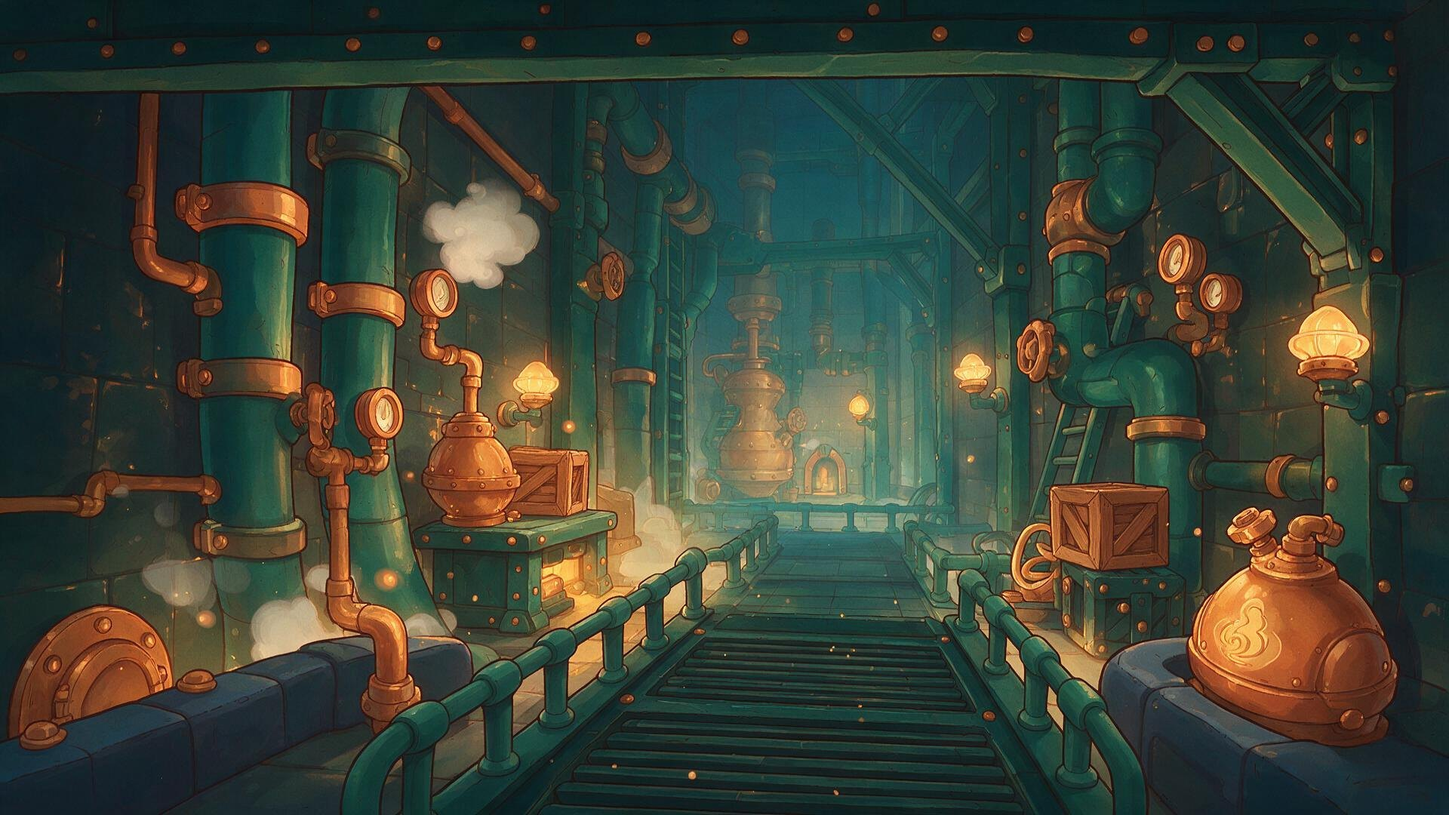
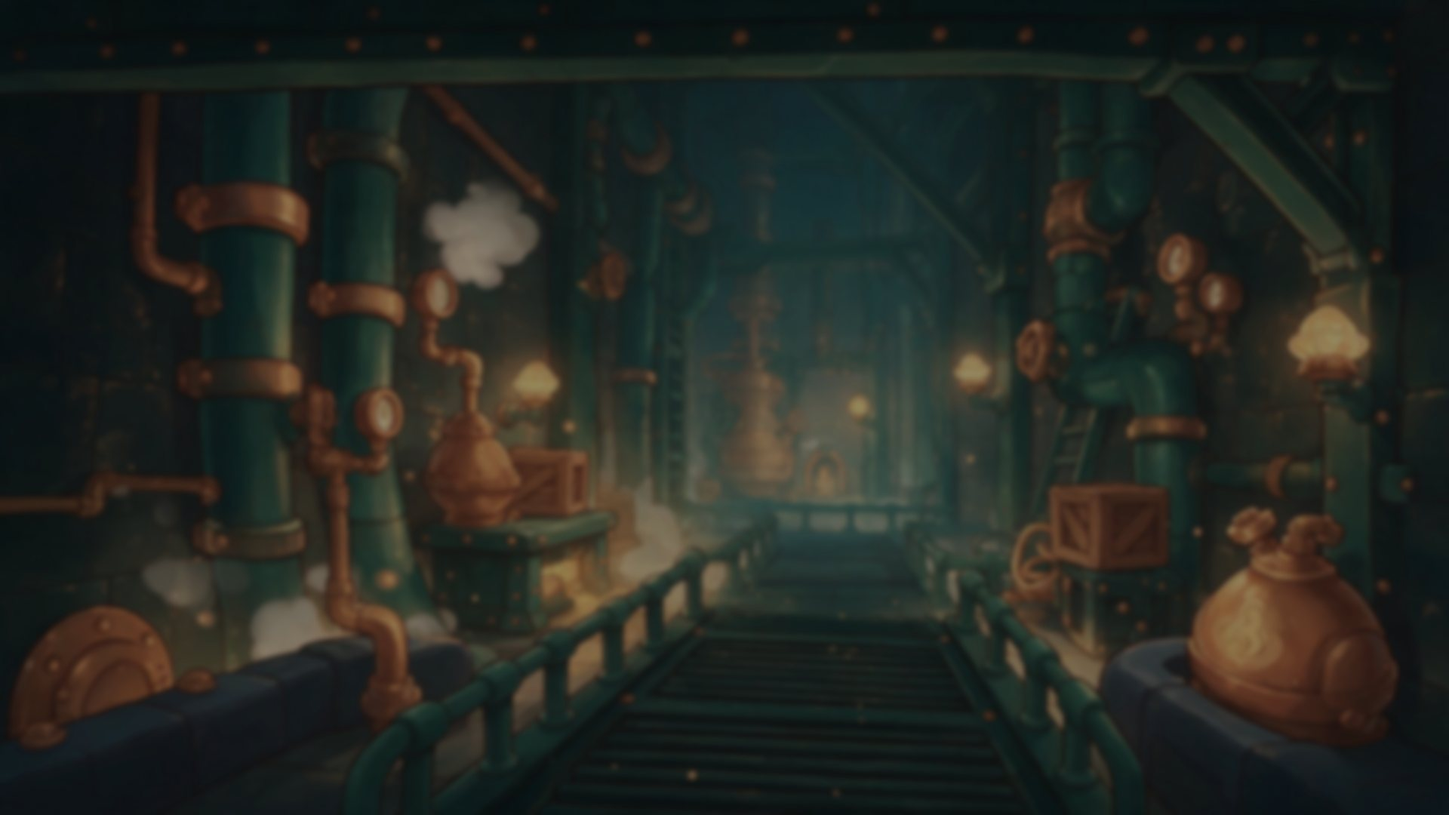
feat(crate_crew): site screenshot, asset provenance and calmer far walls

diff --git a/apps/client/games/crate_crew/ASSETS.md b/apps/client/games/crate_crew/ASSETS.md
@@ -1,10 +1,116 @@
 # Assets of `crate_crew`
 
-Every file in this directory that is not code or the manifest, with where it came from and the licence it is distributed under.
+Every file in this directory that is not code or the manifest, with where it came from and the licence it is distributed under. The pictures and the music were made for this project on 2026-11-11 with the tools in `scripts/assets/`, from prompts written for this project that describe its own robots, machines and workshop and name no existing work. They are distributed under Apache-2.0 with the project; see the note on AI-generated material in `docs/legal/licenses.md`.
+
+Every picture prompt begins with the same style sentence, written `[style]` below: "Hand-painted cartoon game art, clean dark brown outlines of even weight, soft cel shading with a warm rim light, chunky rounded toy-like shapes, rich saturated colours, cosy lamp-lit workshop mood."
 
 | File | What it is | Source | Licence |
 |---|---|---|---|
-| `key_art.jpg` | 16:9 key art (1920x1080) shown by the launcher and the website | Generated for this project with the image model `doubao-seedream-5.0-pro` from a prompt written for it that describes this game's own two robots and workshop; an original composition that depicts no character or artwork of any existing game | Distributed with the project under Apache-2.0. AI-generated images may not be protected by copyright in some jurisdictions; judge for yourself before reusing it |
-| `site_screenshot.png` | A 1920x1080 capture of this game being played in the launcher, shown on the website. It is not shipped in the game: the export presets exclude it | Captured from this project's own launcher with `scripts/run-launcher-shot.sh` | Apache-2.0, with the project |
+| `key_art.jpg` | 16:9 key art (1920x1080) shown by the launcher and the website | Generated for this project with doubao-seedream-5.0-pro from a prompt written for it that describes this game's own two robots and workshop; unchanged by this revision | Apache-2.0, with the project |
+| `site_screenshot.jpg` | A 1920x1080 capture of a two-player run in the launcher, shown on the website. Not shipped in the game: the export presets exclude it | Captured from this project's own launcher with `scripts/run-launcher-shot.sh`, saved as JPEG with `assets.py fit` | Apache-2.0, with the project |
+| `art/hero0.png` | Sprite atlas of the teal robot, 14 frames (frame table `art/hero0.json`) | Generated with doubao-seedream-5.0-pro: the base pose `idle` from a prompt, every other frame from a prompt with the keyed base pose as the reference picture (prompts below); each keyed to alpha with `assets.py key`, scaled to its size on the stage and packed with `assets.py pack` (10 atlas pixels per stage pixel) | Apache-2.0, with the project |
+| `art/hero1.png` | Sprite atlas of the orange robot, 14 frames (frame table `art/hero1.json`) | As `art/hero0.png`, with its own base pose and prompts (below) | Apache-2.0, with the project |
+| `art/foes.png` | Sprite atlas of the six enemies, 11 frames (frame table `art/foes.json`) | Generated with doubao-seedream-5.0-pro: first frames from prompts, second frames and the unarmoured roller from prompts with the keyed first frame as the reference picture (prompts below); each keyed to alpha with `assets.py key`, scaled to its size on the stage and packed with `assets.py pack` (10 atlas pixels per stage pixel) | Apache-2.0, with the project |
+| `art/bosses.png` | Sprite atlas of the Dustmaw (closed, open, hurt), the Overseer's trolley (eye open, shutter down, hurt) and its claw (open, shut) (frame table `art/bosses.json`) | Generated with doubao-seedream-5.0-pro in the same way (prompts below); the hook the model drew under the trolley is cropped off, the game draws the chain and the claw itself; each keyed to alpha with `assets.py key`, scaled to its size on the stage and packed with `assets.py pack` (10 atlas pixels per stage pixel) | Apache-2.0, with the project |
+| `art/props.png` | Sprite atlas of crates, things thrown, pick-ups, the lift door, chute, flags, lift, shelves, spikes and four effect sprites, 23 frames (frame table `art/props.json`) | Generated with doubao-seedream-5.0-pro, one prompt per frame (below); each keyed to alpha with `assets.py key`, scaled to its size on the stage and packed with `assets.py pack` (10 atlas pixels per stage pixel); crates, doors, chute, lift, shelves and spikes are stretched to their exact collision size | Apache-2.0, with the project |
+| `art/ground0.jpg` | Repeating ground texture of stage 1 (wooden workbench planks), 512x512, drawn over four cells each way | Generated with doubao-seedream-5.0-pro from the prompt "[style] A seamless flat texture seen straight on: warm brown wooden workbench planks laid horizontally with visible grain, a few knots and small nail heads, evenly lit, filling the whole picture edge to edge. No characters, no text, no watermark."; cropped to whole repeats of its pattern, made seamless and resized with `assets.py tile` | Apache-2.0, with the project |
+| `art/ground1.jpg` | Repeating ground texture of stage 2 (teal riveted steel plates), 512x512, drawn over four cells each way | Generated with doubao-seedream-5.0-pro from the prompt "[style] A seamless flat texture seen straight on: dark teal painted riveted steel plates in a regular grid with slightly worn edges, evenly lit, filling the whole picture edge to edge. No characters, no text, no watermark."; cropped to whole repeats of its pattern, made seamless and resized with `assets.py tile` | Apache-2.0, with the project |
+| `art/ground2.jpg` | Repeating ground texture of stage 3 (foundry bricks), 512x512, drawn over four cells each way | Generated with doubao-seedream-5.0-pro from the prompt "[style] A seamless flat texture seen straight on: dark rust red foundry bricks with sooty mortar lines, evenly lit, filling the whole picture edge to edge. No characters, no text, no watermark."; cropped to whole repeats of its pattern, made seamless and resized with `assets.py tile` | Apache-2.0, with the project |
+| `art/ground3.jpg` | Repeating ground texture of stage 4 (violet steel panels), 512x512, drawn over four cells each way | Generated with doubao-seedream-5.0-pro from the prompt "[style] A seamless flat texture seen straight on: dusky violet blue steel panels with thin seams and tiny rivets, evenly lit, filling the whole picture edge to edge. No characters, no text, no watermark."; cropped to whole repeats of its pattern, made seamless and resized with `assets.py tile` | Apache-2.0, with the project |
+| `art/back0.jpg` | Far wall of stage 1, 1920x1080 | Generated with doubao-seedream-5.0-pro from the prompt "[style] A wide game background of the inside of an enormous cosy workshop seen from a tabletop: a far pegboard wall hung with giant spanners, saws and hammers, tall shelves of jars and paint tins, hanging lamps casting warm cones of light with floating dust, deep blue shadows. Soft, slightly hazy and low in contrast so that foreground game elements stand out. No characters, no text, no watermark."; left and right edges cross-faded so it repeats sideways, blurred, darkened and desaturated with Pillow so it stays behind the play | Apache-2.0, with the project |
+| `art/back1.jpg` | Far wall of stage 2, 1920x1080 | Generated with doubao-seedream-5.0-pro from the prompt "[style] A wide game background of the inside of a deep vertical maintenance shaft: big teal and copper pipes running up and down a dark wall, valves and pressure gauges, wisps of steam, small amber lamps, cool blue green shadows. Soft, slightly hazy and low in contrast so that foreground game elements stand out. No characters, no text, no watermark."; blurred, darkened and desaturated with Pillow so it stays behind the play | Apache-2.0, with the project |
+| `art/back2.jpg` | Far wall of stage 3, 1920x1080 | Generated with doubao-seedream-5.0-pro from the prompt "[style] A wide game background of the inside of a glowing foundry hall: distant furnaces with orange molten light, huge ladles hanging on chains, brick arches, conveyor lines far away, drifting embers, deep maroon shadows. Soft, slightly hazy and low in contrast so that foreground game elements stand out. No characters, no text, no watermark."; left and right edges cross-faded so it repeats sideways, blurred, darkened and desaturated with Pillow so it stays behind the play | Apache-2.0, with the project |
+| `art/back3.jpg` | Far wall of stage 4, 1920x1080 | Generated with doubao-seedream-5.0-pro from the prompt "[style] A wide game background of the inside of a high control loft under the roof of a workshop at night: banks of old control consoles with small teal and amber lights, big dials, cable bundles, roof beams and a large round window showing a starry night sky, violet blue shadows. Soft, slightly hazy and low in contrast so that foreground game elements stand out. No characters, no text, no watermark."; left and right edges cross-faded so it repeats sideways, blurred, darkened and desaturated with Pillow so it stays behind the play | Apache-2.0, with the project |
+| `audio/theme_bench.ogg` | Looping theme of the workbench and the foundry, 53.3 s loop, stereo, -18.0 LUFS | Generated with music_v2_5 from the prompt "Instrumental, no vocals. A cheerful, bouncy adventure tune for a cosy toy workshop: marimba and pizzicato strings carry a catchy hopping melody built on a rising four-note motif, answered by a clarinet, with upright bass, brushed snare, wood blocks and ticking clockwork percussion. Bright major key, 126 BPM, steady tempo from the first bar, warm, playful and full-sounding orchestral game soundtrack. An eight-bar phrase that repeats, so the piece loops seamlessly: no intro, no break, no fade out, no ending."; the better of two takes by measured loop similarity, seam and tempo steadiness; loop cut and loudness set with `assets.py audio --kind music --loop` | Apache-2.0, with the project |
+| `audio/theme_shaft.ogg` | Looping theme of the pipe shaft and the control loft, 31.1 s loop, stereo, -18.3 LUFS | Generated with music_v2_5 from the prompt "Instrumental, no vocals. A mysterious but still playful sneaking tune for a deep pipe shaft inside a workshop: a rising four-note motif in a minor key on bass clarinet and muted trumpet over pizzicato low strings, vibraphone, soft metallic pipe percussion, ticking clockwork and upright bass. 108 BPM, steady tempo from the first bar, curious and a little tense, warm orchestral game soundtrack. An eight-bar phrase that repeats, so the piece loops seamlessly: no intro, no break, no fade out, no ending."; the better of two takes by measured loop similarity, seam and tempo steadiness; loop cut and loudness set with `assets.py audio --kind music --loop` | Apache-2.0, with the project |
+| `audio/theme_boss.ogg` | Looping theme of both boss fights, 30.8 s loop, stereo, -18.0 LUFS | Generated with music_v2_5 from the prompt "Instrumental, no vocals. A fast, dramatic boss battle theme for a giant runaway machine in a workshop: driving staccato strings and low brass stabs, pounding timpani, anvil hits and snare drum, a rising four-note motif called out by trumpets in a minor key, racing clockwork percussion. 156 BPM, steady tempo from the first bar, urgent and heroic rather than scary, full orchestral game soundtrack. An eight-bar phrase that repeats, so the piece loops seamlessly: no intro, no break, no fade out, no ending."; the better of two takes by measured loop similarity, seam and tempo steadiness; loop cut and loudness set with `assets.py audio --kind music --loop` | Apache-2.0, with the project |
+| `audio/fanfare_clear.ogg` | Stage-clear fanfare, stereo, -16 LUFS | Generated with music_v2_5 from the prompt "Instrumental, no vocals. A short triumphant stage-clear fanfare for a playful workshop adventure game: trumpets and marimba play a quick rising four-note motif that lands on a bright held major chord with a cymbal and a glockenspiel sparkle. Starts at once, complete ending, then silence."; trimmed and loudness set with `assets.py audio --kind stinger` | Apache-2.0, with the project |
+| `audio/fanfare_won.ogg` | Victory fanfare after the last stage, stereo, -16 LUFS | Generated with music_v2_5 from the prompt "Instrumental, no vocals. A grand, joyful victory fanfare for the end of a playful workshop adventure game: full orchestra with trumpets, strings, marimba and timpani plays a rising four-note motif twice, climbing higher the second time, and ends on a big happy final major chord with cymbals. Starts at once, complete ending, then silence."; trimmed and loudness set with `assets.py audio --kind stinger` | Apache-2.0, with the project |
+| `audio/fanfare_lost.ogg` | Game-over jingle, stereo, -16 LUFS | Generated with music_v2_5 from the prompt "Instrumental, no vocals. A short gentle sad game-over jingle for a playful workshop adventure game: a clarinet and pizzicato strings play a falling four-note phrase that slows and winds down like a clockwork toy running out of spring, ending on one soft low marimba note. Starts at once, complete ending, then silence."; trimmed and loudness set with `assets.py audio --kind stinger` | Apache-2.0, with the project |
 
-Everything else the game shows is pixel art drawn by its own code: sprites are built at start-up from palette-indexed rows of characters and from small drawing routines in `sprites.gd`, and backgrounds are generated in `backdrops.gd`. All of it was authored for this project and is Apache-2.0 with the project. The game has no audio files: effects and music are synthesised at run time by `games/shared/game_audio.gd` from the note and effect tables in `sounds.gd`, which were written for this project.
+Sound effects are not files: they are synthesised at run time by `games/shared/game_synth.gd` from the presets of `games/shared/game_sfx.gd` and the layered definitions in `sounds.gd`, written for this project. Ground edges, conveyor chevrons, the crane rail and chain, shadows, particles of light, banners and hint plates are drawn by `render.gd`.
+
+## Prompts of `art/hero0.png`
+
+- `carry`: "The same character from the reference image, identical design, colours and proportions, same art style, now standing upright and holding both arms straight up above its head with flat open hands, as if holding up a big box overhead, but without drawing any box. Full body, side view facing right, centred, isolated on a perfectly flat solid pure magenta (#FF00FF) background, no shadow, no ground, no glow, no text."
+- `carry_run_0`: "The same character from the reference image, identical design, colours and proportions, same art style, now running to the right in a wide stride while holding both arms straight up above its head with flat open hands, without drawing any box. Full body, side view facing right, centred, isolated on a perfectly flat solid pure magenta (#FF00FF) background, no shadow, no ground, no glow, no text."
+- `carry_run_1`: "The same character from the reference image, identical design, colours and proportions, same art style, now running to the right with one knee lifted high while holding both arms straight up above its head with flat open hands, without drawing any box. Full body, side view facing right, centred, isolated on a perfectly flat solid pure magenta (#FF00FF) background, no shadow, no ground, no glow, no text."
+- `cheer`: "The same character from the reference image, identical design, colours and proportions, same art style, now celebrating a victory: jumping for joy with one fist punched high in the air, its eyes shown as two happy upward curves. Full body, side view facing right, centred, isolated on a perfectly flat solid pure magenta (#FF00FF) background, no shadow, no ground, no glow, no text."
+- `duck`: "The same character from the reference image, identical design, colours and proportions, same art style, now crouching as low as it can, squatting with knees fully bent and its head pulled down between its shoulders, both arms held straight up above its head with flat open hands, without drawing any box. Full body, side view facing right, centred, isolated on a perfectly flat solid pure magenta (#FF00FF) background, no shadow, no ground, no glow, no text."
+- `fall`: "The same character from the reference image, identical design, colours and proportions, same art style, now falling down through the air, legs dangling apart, both arms flung up and out, looking down, a little worried. Full body, side view facing right, centred, isolated on a perfectly flat solid pure magenta (#FF00FF) background, no shadow, no ground, no glow, no text."
+- `hurt`: "The same character from the reference image, identical design, colours and proportions, same art style, now being hit and knocked backwards: body bent back, arms and legs flailing, its eyes shown as two X shapes. Full body, side view facing right, centred, isolated on a perfectly flat solid pure magenta (#FF00FF) background, no shadow, no ground, no glow, no text."
+- `idle`: "[style] A video game character: a small cute repair robot with a round teal dome head, a dark visor with two glowing green rectangular eyes, a thin antenna with a small orange ball on top, a compact boxy teal torso with a yellow chest light, short dark jointed arms with teal mitten hands and short legs with big chunky teal boots. Standing upright in a relaxed idle pose, arms at its sides, full body, side view facing right.  Full object in frame, centred, isolated on a perfectly flat solid pure magenta (#FF00FF) background, no shadow, no ground, no glow, no text, no watermark."
+- `jump`: "The same character from the reference image, identical design, colours and proportions, same art style, now jumping straight up, both knees tucked up under the body, both arms raised, looking up. Full body, side view facing right, centred, isolated on a perfectly flat solid pure magenta (#FF00FF) background, no shadow, no ground, no glow, no text."
+- `run_0`: "The same character from the reference image, identical design, colours and proportions, same art style, now running fast to the right in a wide stride: front leg stretched far forward, back leg kicked up behind, arms swinging, body leaning forward. Full body, side view facing right, centred, isolated on a perfectly flat solid pure magenta (#FF00FF) background, no shadow, no ground, no glow, no text."
+- `run_1`: "The same character from the reference image, identical design, colours and proportions, same art style, now running to the right, caught in the middle of a step: one knee lifted high in front, the other foot planted straight under the body, elbows bent, body leaning forward. Full body, side view, isolated on a transparent background, no shadow, no text"
+- `run_2`: "The same character from the reference image, identical design, colours and proportions, same art style, now running fast to the right in a wide stride with the other leg forward: back leg stretched far behind touching the ground with its toe, front leg reaching forward in the air, arms swinging the opposite way, body leaning forward. Full body, side view, isolated on a transparent background, no shadow, no text."
+- `run_3`: "The same character from the reference image, identical design, colours and proportions, same art style, now running to the right, pushing off: the back foot just leaving the ground behind the body, the front knee bent low, body leaning forward. Full body, side view facing right, centred, isolated on a perfectly flat solid pure magenta (#FF00FF) background, no shadow, no ground, no glow, no text."
+- `throw`: "The same character from the reference image, identical design, colours and proportions, same art style, now throwing something away to the right: lunging forward on one bent leg with both arms thrust straight out in front, hands open, body leaning far forward, without drawing the thrown thing. Full body, side view facing right, centred, isolated on a perfectly flat solid pure magenta (#FF00FF) background, no shadow, no ground, no glow, no text."
+
+## Prompts of `art/hero1.png`
+
+- `carry`: "The same character from the reference image, identical design, colours and proportions, same art style, now standing upright and holding both arms straight up above its head with flat open hands, its hands completely empty, nothing above its head, only the robot itself in the picture. Full body, side view facing right, centred, isolated on a perfectly flat solid pure magenta (#FF00FF) background, no shadow, no ground, no glow, no text."
+- `carry_run_0`: "The same character from the reference image, identical design, colours and proportions, same art style, now running to the right in a wide stride while holding both arms straight up above its head with flat open hands, without drawing any box. Full body, side view facing right, centred, isolated on a perfectly flat solid pure magenta (#FF00FF) background, no shadow, no ground, no glow, no text."
+- `carry_run_1`: "The same character from the reference image, identical design, colours and proportions, same art style, now running to the right with one knee lifted high while holding both arms straight up above its head with flat open hands, without drawing any box. Full body, side view facing right, centred, isolated on a perfectly flat solid pure magenta (#FF00FF) background, no shadow, no ground, no glow, no text."
+- `cheer`: "The same character from the reference image, identical design, colours and proportions, same art style, now celebrating a victory: jumping for joy with one fist punched high in the air, its eyes shown as two happy upward curves. Full body, side view facing right, centred, isolated on a perfectly flat solid pure magenta (#FF00FF) background, no shadow, no ground, no glow, no text."
+- `duck`: "The same character from the reference image, identical design, colours and proportions, same art style, now crouching as low as it can, squatting with knees fully bent and its head pulled down between its shoulders, both arms held straight up above its head with flat open hands, without drawing any box. Full body, side view facing right, centred, isolated on a perfectly flat solid pure magenta (#FF00FF) background, no shadow, no ground, no glow, no text."
+- `fall`: "The same character from the reference image, identical design, colours and proportions, same art style, now falling down through the air, legs dangling apart, both arms flung up and out, looking down, a little worried. Full body, side view facing right, centred, isolated on a perfectly flat solid pure magenta (#FF00FF) background, no shadow, no ground, no glow, no text."
+- `hurt`: "The same character from the reference image, identical design, colours and proportions, same art style, now being hit and knocked backwards: body bent back, arms and legs flailing, its eyes shown as two X shapes. Full body, side view facing right, centred, isolated on a perfectly flat solid pure magenta (#FF00FF) background, no shadow, no ground, no glow, no text."
+- `idle`: "[style] A video game character: a small cute repair robot with a square orange head with a black carry handle on top, a dark face plate with two big round glowing green eyes, a compact boxy orange torso with a pale blue chest light, short dark jointed arms with orange mitten hands and short legs with big chunky orange boots. Standing upright in a relaxed idle pose, arms at its sides, full body, side view facing right.  Full object in frame, centred, isolated on a perfectly flat solid pure magenta (#FF00FF) background, no shadow, no ground, no glow, no text, no watermark."
+- `jump`: "The same character from the reference image, identical design, colours and proportions, same art style, now jumping straight up, both knees tucked up under the body, both arms raised, looking up. Full body, side view facing right, centred, isolated on a perfectly flat solid pure magenta (#FF00FF) background, no shadow, no ground, no glow, no text."
+- `run_0`: "The same character from the reference image, identical design, colours and proportions, same art style, now running fast to the right in a wide stride: front leg stretched far forward, back leg kicked up behind, arms swinging, body leaning forward. Full body, side view facing right, centred, isolated on a perfectly flat solid pure magenta (#FF00FF) background, no shadow, no ground, no glow, no text."
+- `run_1`: "The same character from the reference image, identical design, colours and proportions, same art style, now running to the right, caught in the middle of a step: one knee lifted high in front, the other foot planted straight under the body, elbows bent, body leaning forward. Full body, side view facing right, centred, isolated on a perfectly flat solid pure magenta (#FF00FF) background, no shadow, no ground, no glow, no text."
+- `run_2`: "The same character from the reference image, identical design, colours and proportions, same art style, now running fast to the right in a wide stride with the other leg forward: back leg stretched far behind touching the ground with its toe, front leg reaching forward in the air, arms swinging the opposite way, body leaning forward. Full body, side view facing right, centred, isolated on a perfectly flat solid pure magenta (#FF00FF) background, no shadow, no ground, no glow, no text."
+- `run_3`: "The same character from the reference image, identical design, colours and proportions, same art style, now running to the right, pushing off: the back foot just leaving the ground behind the body, the front knee bent low, body leaning forward. Full body, side view facing right, centred, isolated on a perfectly flat solid pure magenta (#FF00FF) background, no shadow, no ground, no glow, no text."
+- `throw`: "The same character from the reference image, identical design, colours and proportions, same art style, now throwing something away to the right: lunging forward on one bent leg with both arms thrust straight out in front, hands open, body leaning far forward, without drawing the thrown thing. Full body, side view facing right, centred, isolated on a perfectly flat solid pure magenta (#FF00FF) background, no shadow, no ground, no glow, no text."
+
+## Prompts of `art/foes.png`
+
+- `bare_0`: "The same ball robot from the reference image, identical design, colours and proportions, same art style, now with all of its grey armour plates knocked off: a smooth glowing orange ball core with a few cracks and the same two eyes, now wide and scared. Full body, side view, centred, isolated on a perfectly flat solid pure magenta (#FF00FF) background, no shadow, no ground, no glow, no text."
+- `bug_0`: "[style] A video game enemy: a small purple mechanical beetle robot with a rounded riveted shell, one round white eye, a short antenna with a yellow bulb and six stubby dark metal legs, walking. Full body, side view facing right.  Full object in frame, centred, isolated on a perfectly flat solid pure magenta (#FF00FF) background, no shadow, no ground, no glow, no text, no watermark."
+- `bug_1`: "The same little beetle robot from the reference image, identical design, colours and proportions, same art style, now taking the next step of its walk: every leg moved to the opposite position, its body a little lower. Full body, side view, centred, isolated on a perfectly flat solid pure magenta (#FF00FF) background, no shadow, no ground, no glow, no text."
+- `drone_0`: "[style] A video game enemy: a small red flying robot with a round body, one big white eye, two small spinning grey rotors on short arms on its top and tiny dangling feelers below. Full body, side view facing right.  Full object in frame, centred, isolated on a perfectly flat solid pure magenta (#FF00FF) background, no shadow, no ground, no glow, no text, no watermark."
+- `hopper_0`: "[style] A video game enemy: a small green robot with a round head, one big white eye and a grumpy brow, sitting on a tightly compressed steel coil spring with a dark metal foot plate. Full body, side view facing right.  Full object in frame, centred, isolated on a perfectly flat solid pure magenta (#FF00FF) background, no shadow, no ground, no glow, no text, no watermark."
+- `hopper_1`: "The same spring robot from the reference image, identical design, colours and proportions, same art style, now leaping high into the air with its steel coil spring stretched out long and thin below it, eye wide open. Full body, side view, centred, isolated on a perfectly flat solid pure magenta (#FF00FF) background, no shadow, no ground, no glow, no text."
+- `magnet_0`: "[style] A video game enemy: a hovering red horseshoe magnet robot with two white cartoon eyes on its arch, its two grey steel tips pointing straight down, and a tiny grey propeller on top. Full body, front view.  Full object in frame, centred, isolated on a perfectly flat solid pure magenta (#FF00FF) background, no shadow, no ground, no glow, no text, no watermark."
+- `magnet_1`: "The same magnet robot from the reference image, identical design, colours and proportions, same art style, now switched on: small bright blue electric arcs crackling between its two steel tips, its eyes narrowed and angry. Full body, front view, centred, isolated on a perfectly flat solid pure magenta (#FF00FF) background, no shadow, no ground, no glow, no text."
+- `roller_0`: "[style] A video game enemy: a heavy ball-shaped robot covered in grey riveted steel armour plates, with two angry glowing yellow eyes in a dark slit, perfectly round like a bowling ball. Full body, side view facing right.  Full object in frame, centred, isolated on a perfectly flat solid pure magenta (#FF00FF) background, no shadow, no ground, no glow, no text, no watermark."
+- `turret_0`: "[style] A video game enemy: a small blue dome gun turret robot with one white eye and a short grey barrel pointing right, mounted on a short grey riveted metal pedestal. Full body, side view facing right.  Full object in frame, centred, isolated on a perfectly flat solid pure magenta (#FF00FF) background, no shadow, no ground, no glow, no text, no watermark."
+- `turret_1`: "The same turret robot from the reference image, identical design, colours and proportions, same art style, now firing its gun: its eye glowing red and angry and a bright yellow star-shaped muzzle flash at the tip of its barrel. Full body, side view, centred, isolated on a perfectly flat solid pure magenta (#FF00FF) background, no shadow, no ground, no glow, no text."
+
+## Prompts of `art/bosses.png`
+
+- `claw_open`: "[style] A video game boss part: a heavy grey steel crane grabber claw with two curved pincer jaws spread wide open, hanging from a short grey block with a red light, pale sharp tips. Front view, symmetrical.  Full object in frame, centred, isolated on a perfectly flat solid pure magenta (#FF00FF) background, no shadow, no ground, no glow, no text, no watermark."
+- `claw_shut`: "The same crane claw from the reference image, identical design, colours and proportions, same art style, now with its two pincer jaws clamped shut tightly together, the tips touching. Full body, front view, centred, isolated on a perfectly flat solid pure magenta (#FF00FF) background, no shadow, no ground, no glow, no text."
+- `crane_hurt`: "The same crane trolley machine from the reference image, identical design, colours and proportions, same art style, now hurt: its big lens eye cracked and flashing white, both warning lamps glowing red, a few yellow sparks jumping off its body. Full body, front view, centred, isolated on a perfectly flat solid pure magenta (#FF00FF) background, no shadow, no ground, no glow, no text."
+- `crane_open`: "[style] A big video game boss: a heavy blue overhead crane trolley machine seen from the front, a wide riveted box hanging from three dark rail wheels on its top, with one huge glowing red camera lens eye in the middle, a small yellow warning lamp on each side, a yellow and black hazard stripe along its bottom edge and a grey winch drum underneath. Front view, symmetrical.  Full object in frame, centred, isolated on a perfectly flat solid pure magenta (#FF00FF) background, no shadow, no ground, no glow, no text, no watermark."
+- `crane_shut`: "The same crane trolley machine from the reference image, identical design, colours and proportions, same art style, now with a grey steel roller shutter of horizontal slats pulled fully closed over its big lens eye, so the eye cannot be seen at all. Full body, front view, centred, isolated on a perfectly flat solid pure magenta (#FF00FF) background, no shadow, no ground, no glow, no text."
+- `vac_closed`: "[style] A big video game boss: a huge angry purple canister vacuum cleaner machine on two dark wheels, with a wide grey metal nozzle snout at its front with the mouth shut showing small teeth, two furious glowing yellow eyes with heavy dark brows, a short grey exhaust stack on top and a patched brown cloth dust bag bulging at its back. Full body, side view facing left.  Full object in frame, centred, isolated on a perfectly flat solid pure magenta (#FF00FF) background, no shadow, no ground, no glow, no text, no watermark."
+- `vac_hurt`: "The same vacuum cleaner machine from the reference image, identical design, colours and proportions, same art style, now hurt and dazed: both eyes shown as white X shapes, mouth shut tight in a grimace, a few small dents and a puff of dust leaking from its bag. Full body, side view, centred, isolated on a perfectly flat solid pure magenta (#FF00FF) background, no shadow, no ground, no glow, no text."
+- `vac_open`: "The same vacuum cleaner machine from the reference image, identical design, colours and proportions, same art style, now roaring with its metal nozzle mouth wide open, showing a dark red throat and big white teeth. Full body, side view, centred, isolated on a perfectly flat solid pure magenta (#FF00FF) background, no shadow, no ground, no glow, no text."
+
+## Prompts of `art/props.png`
+
+- `battery`: "[style] A game pick-up: one small upright green battery cell with a silver cap and a yellow lightning bolt symbol on its label.  Full object in frame, centred, isolated on a perfectly flat solid pure magenta (#FF00FF) background, no shadow, no ground, no glow, no text, no watermark."
+- `chute`: "[style] A game prop: a short wide grey metal delivery chute hatch that hangs from a ceiling, a riveted funnel with a dark opening at the bottom and a yellow hazard stripe on its collar. Front view.  Full object in frame, centred, isolated on a perfectly flat solid pure magenta (#FF00FF) background, no shadow, no ground, no glow, no text, no watermark."
+- `cog`: "[style] A game pick-up: one large ornate golden cogwheel with twelve teeth, a polished rim and a bright white sparkle, seen from the front.  Full object in frame, centred, isolated on a perfectly flat solid pure magenta (#FF00FF) background, no shadow, no ground, no glow, no text, no watermark."
+- `core`: "[style] A game pick-up: a small teal robot power core, a rounded square capsule with a little friendly robot face of two glowing eyes on a dark screen and tiny metal prongs at top and bottom.  Full object in frame, centred, isolated on a perfectly flat solid pure magenta (#FF00FF) background, no shadow, no ground, no glow, no text, no watermark."
+- `door_closed`: "[style] A game prop: a tall grey metal freight lift door seen from the front, two closed sliding panels with small pale blue windows, a sturdy riveted frame, a yellow and black hazard stripe near the bottom and a small red lamp above. Front view, no perspective.  Full object in frame, centred, isolated on a perfectly flat solid pure magenta (#FF00FF) background, no shadow, no ground, no glow, no text, no watermark."
+- `door_open`: "[style] A game prop: a tall grey metal freight lift door seen from the front, its panels slid open showing a dark lift cabin with a teal glowing floor inside, a sturdy riveted frame and a small green lamp above. Front view, no perspective.  Full object in frame, centred, isolated on a perfectly flat solid pure magenta (#FF00FF) background, no shadow, no ground, no glow, no text, no watermark."
+- `flag_off`: "[style] A game prop: a checkpoint signal post, a tall thin grey metal pole on a small dark base with a limp folded grey pennant flag at the top. Side view.  Full object in frame, centred, isolated on a perfectly flat solid pure magenta (#FF00FF) background, no shadow, no ground, no glow, no text, no watermark."
+- `flag_on`: "[style] A game prop: a checkpoint signal post, a tall thin grey metal pole on a small dark base with a bright teal pennant flag flying to the right at the top and a small glowing teal lamp. Side view.  Full object in frame, centred, isolated on a perfectly flat solid pure magenta (#FF00FF) background, no shadow, no ground, no glow, no text, no watermark."
+- `fx_bolt`: "[style] A game effect: one tiny grey metal screw bolt.  Full object in frame, centred, isolated on a perfectly flat solid pure magenta (#FF00FF) background, no shadow, no ground, no glow, no text, no watermark."
+- `fx_puff`: "[style] A simple game effect sprite: one single small soft cloud of pale beige dust, a plain cartoon smoke puff made of five rounded lobes, nothing else in the picture. One single object only, centred, isolated on a perfectly flat solid pure magenta (#FF00FF) background, no shadow, no ground, no frame, no border, no text, no watermark."
+- `fx_splinter`: "[style] A game effect: one broken jagged shard of light brown wooden plank.  Full object in frame, centred, isolated on a perfectly flat solid pure magenta (#FF00FF) background, no shadow, no ground, no glow, no text, no watermark."
+- `fx_star`: "[style] A simple game effect sprite: one single plain flat starburst shape with eight sharp points, pure white in the middle fading to pale yellow at the tips, a cartoon hit flash, nothing else in the picture. One single object only, centred, isolated on a perfectly flat solid pure magenta (#FF00FF) background, no shadow, no ground, no frame, no border, no text, no watermark."
+- `gear`: "[style] A game pick-up: one small shiny golden yellow gear wheel with eight teeth and a round hole, seen from the front.  Full object in frame, centred, isolated on a perfectly flat solid pure magenta (#FF00FF) background, no shadow, no ground, no glow, no text, no watermark."
+- `hexnut`: "[style] A game prop: one big heavy grey steel hexagonal nut with a round threaded hole, seen from the front.  Full object in frame, centred, isolated on a perfectly flat solid pure magenta (#FF00FF) background, no shadow, no ground, no glow, no text, no watermark."
+- `lift`: "[style] A game prop: a wide thin horizontal moving platform, a flat grey steel slab with yellow and black hazard stripes at both ends and two small thrusters underneath, seen exactly from the side. Wide and flat.  Full object in frame, centred, isolated on a perfectly flat solid pure magenta (#FF00FF) background, no shadow, no ground, no glow, no text, no watermark."
+- `nut`: "[style] A game prop: one small shiny grey steel hexagonal nut with a round hole, seen from the front.  Full object in frame, centred, isolated on a perfectly flat solid pure magenta (#FF00FF) background, no shadow, no ground, no glow, no text, no watermark."
+- `scrap`: "[style] A game prop: a compact round lump of crushed scrap metal, grey dented plates with bits of rusty brown, pressed into a rough ball.  Full object in frame, centred, isolated on a perfectly flat solid pure magenta (#FF00FF) background, no shadow, no ground, no glow, no text, no watermark."
+- `shelf_metal`: "[style] A game prop: one short horizontal steel grating shelf seen exactly from the front, with a riveted bracket under each end. Wide and flat, front view.  Full object in frame, centred, isolated on a perfectly flat solid pure magenta (#FF00FF) background, no shadow, no ground, no glow, no text, no watermark."
+- `shelf_wood`: "[style] A game prop: one short thick horizontal wooden shelf plank seen exactly from the front, with a dark iron bracket under each end. Wide and flat, front view.  Full object in frame, centred, isolated on a perfectly flat solid pure magenta (#FF00FF) background, no shadow, no ground, no glow, no text, no watermark."
+- `spark`: "[style] A simple game effect sprite: one single small ball of crackling electricity, a bright white round core with short jagged yellow lightning spikes all around it, nothing else in the picture. One single object only, centred, isolated on a perfectly flat solid pure magenta (#FF00FF) background, no shadow, no ground, no frame, no border, no text, no watermark."
+- `spikes`: "[style] A game hazard: a short row of four sharp grey steel floor spikes of slightly different heights standing on a thin dark metal base strip. Front view.  Full object in frame, centred, isolated on a perfectly flat solid pure magenta (#FF00FF) background, no shadow, no ground, no glow, no text, no watermark."
+- `steel`: "[style] A game prop: a heavy square steel crate seen exactly from the front, a perfectly square flat face of grey riveted metal plate with a yellow and black hazard stripe band across the middle. Front view, no perspective.  Full object in frame, centred, isolated on a perfectly flat solid pure magenta (#FF00FF) background, no shadow, no ground, no glow, no text, no watermark."
+- `wood`: "[style] A game prop: a sturdy square wooden shipping crate seen exactly from the front, a perfectly square flat face with a plank frame, a diagonal cross brace and dark metal corner brackets. Front view, no perspective.  Full object in frame, centred, isolated on a perfectly flat solid pure magenta (#FF00FF) background, no shadow, no ground, no glow, no text, no watermark."
